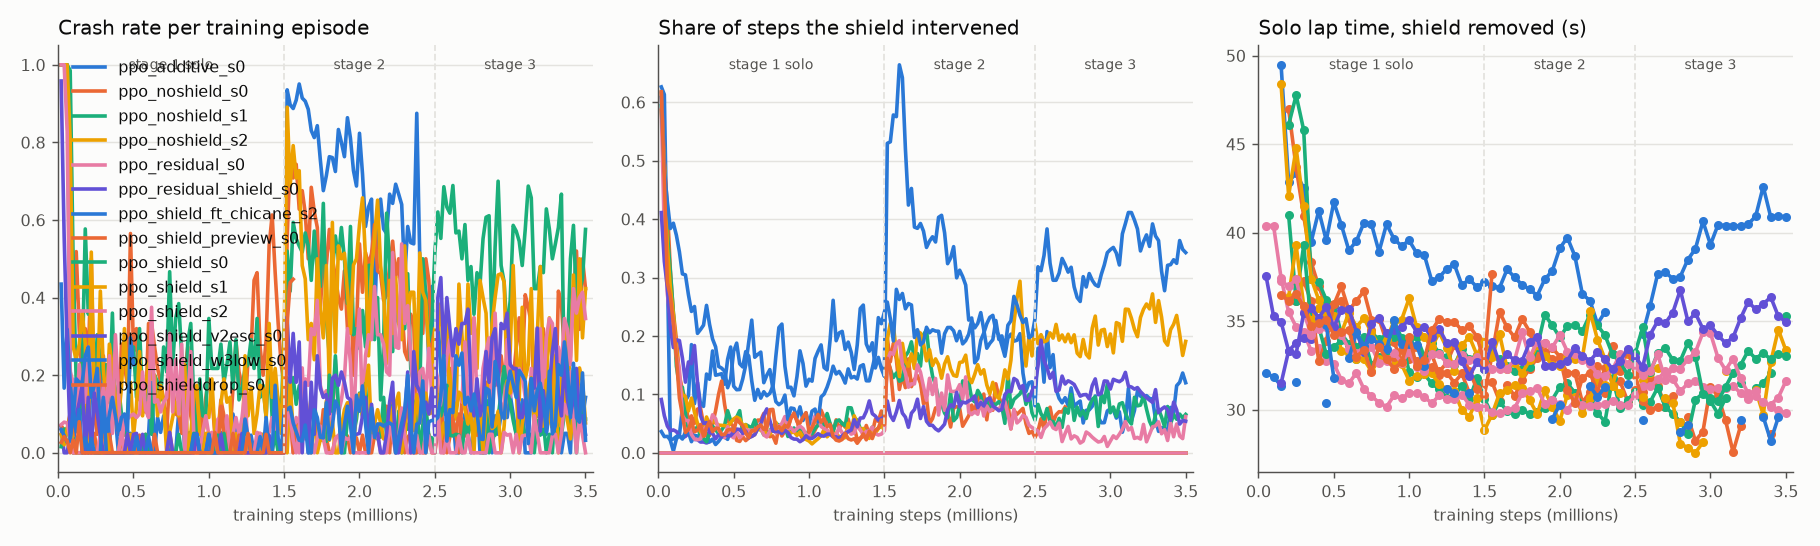
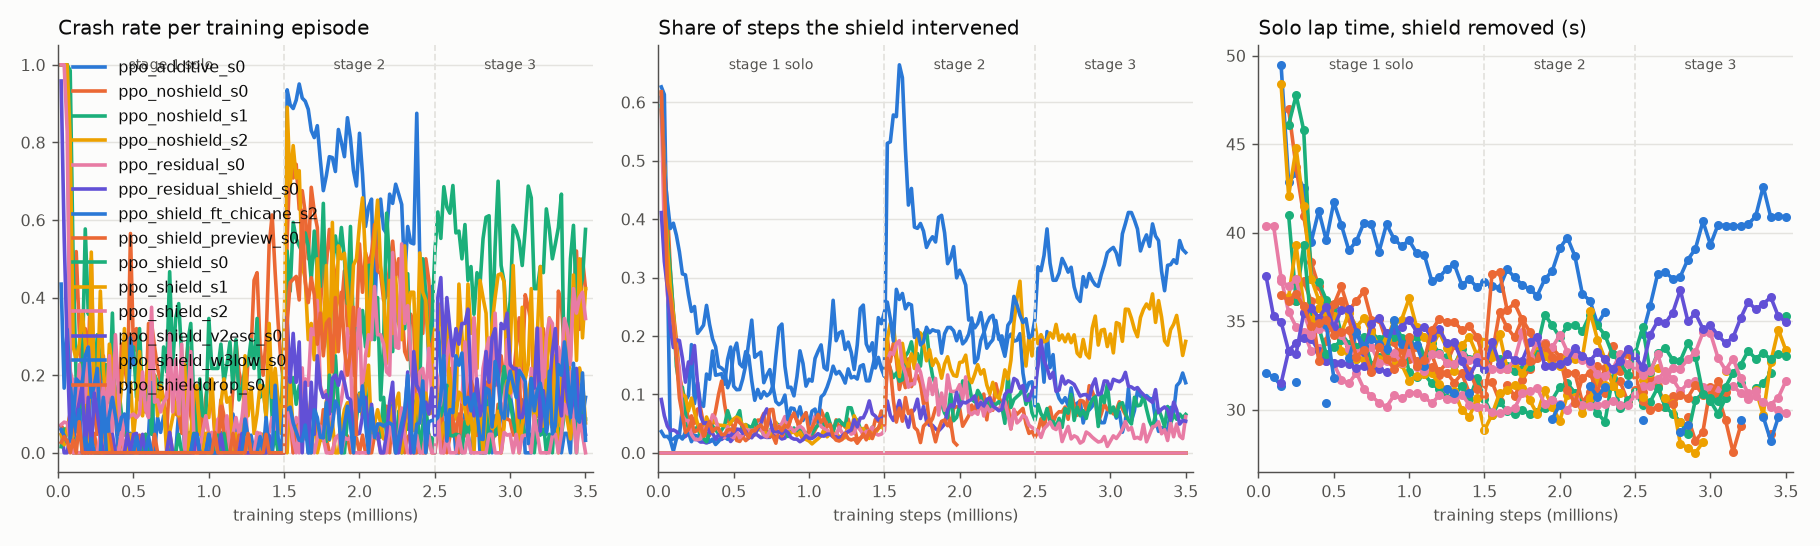
Auto-sync training progress (11:38)

diff --git a/RUNS.md b/RUNS.md
@@ -1,6 +1,6 @@
 # Run registry
 
-Auto-generated by `python -m scripts.update_registry` (2026-11-05 11:18). Each run directory `runs/<run>/` holds `args.json`, `run_info.json` (git commit, command, status), `train_log.csv` (every ~20k steps), `eval_log.csv` (solo laps with/without shield every 50k steps), `model_stage*.zip` + `vecnorm_stage*.pkl` (checkpoint after each curriculum stage). TensorBoard logs (`runs/*/tb`) stay local.
+Auto-generated by `python -m scripts.update_registry` (2026-11-05 11:38). Each run directory `runs/<run>/` holds `args.json`, `run_info.json` (git commit, command, status), `train_log.csv` (every ~20k steps), `eval_log.csv` (solo laps with/without shield every 50k steps), `model_stage*.zip` + `vecnorm_stage*.pkl` (checkpoint after each curriculum stage). TensorBoard logs (`runs/*/tb`) stay local.
 
 ## Training runs
 
@@ -11,15 +11,15 @@ Auto-generated by `python -m scripts.update_registry` (2026-11-05 11:18). Each r
 | `ppo_noshield_s1` | Ablation (no shield), seed 1 | shield=off seed=1 tyre=saturated | `b3af79a` | finished | 3.50M | 26% / 41% / 52% | 200k | 28.60 / 35.28 | 0% | stage1, stage2, stage3 |
 | `ppo_noshield_s2` | Ablation (no shield), seed 2 | shield=off seed=2 tyre=saturated | `65f27b5` | finished | 3.50M | 19% / 44% / 30% | 150k | 27.56 / 33.36 | 0% | stage1, stage2, stage3 |
 | `ppo_residual_s0` | ResRace/RaceMOP-style: PPO residual on top of PID+APF (APF shapes every command) | shield=off residual seed=0 tyre=saturated | `5549760` | finished | 3.50M | 14% / 22% / 22% | 50k | 29.80 / 29.80 | 0% | stage1, stage2, stage3 |
-| `ppo_residual_shield_s0` | E23: ResRace-style residual policy trained with the final shield (escape, v2 sim) | shield=cond_fb_grip_esc residual seed=0 tyre=saturated_v2 | `c8b4246` | running | 0.34M | 1% / - / - | 50k | 33.32 / 34.00 | 2% | - |
+| `ppo_residual_shield_s0` | E23: ResRace-style residual policy trained with the final shield (escape, v2 sim) | shield=cond_fb_grip_esc residual seed=0 tyre=saturated_v2 | `c8b4246` | running | 0.86M | 0% / - / - | 50k | 32.12 / 32.12 | 3% | - |
 | `ppo_shield_ft_chicane_s2` | E22: seed-2 shielded policy fine-tuned 500k steps, half the episodes starting before the chicane | shield=cond_fb_grip_esc seed=2 tyre=saturated_v2 | `e1f1aac` | running | 0.50M | 17% | 50k | 30.36 / 30.36 | 3% | - |
-| `ppo_shield_preview_s0` | Timidity test: ours with 10 centerline curvatures (1-20 m ahead) in the observation | shield=cond_fb_grip seed=0 tyre=saturated | `98cfd56` | running | 2.70M | 2% / 4% / 6% | 250k | 30.00 / 30.16 | 7% | stage1, stage2 |
+| `ppo_shield_preview_s0` | Timidity test: ours with 10 centerline curvatures (1-20 m ahead) in the observation | shield=cond_fb_grip seed=0 tyre=saturated | `98cfd56` | running | 3.10M | 2% / 4% / 8% | 250k | 30.00 / 31.00 | 7% | stage1, stage2 |
 | `ppo_shield_s0` | Ours: PPO + action-conditioned APF shield with fallback (grip reach), all stages | shield=cond_fb_grip seed=0 tyre=saturated | `afc94c8 +dirty` | finished | 3.50M | 1% / 9% / 7% | 200k | 30.48 / 33.04 | 6% | stage1, stage2, stage3 |
 | `ppo_shield_s1` | Ours, seed 1 | shield=cond_fb_grip seed=1 tyre=saturated | `0152028` | finished | 3.50M | 1% / 9% / 11% | 200k | 29.12 / 29.12 | 20% | stage1, stage2, stage3 |
 | `ppo_shield_s2` | Ours, seed 2 | shield=cond_fb_grip seed=2 tyre=saturated | `41be473` | finished | 3.50M | 1% / 3% / 3% | 150k | 30.28 / 31.60 | 4% | stage1, stage2, stage3 |
 | `ppo_shield_v2esc_s0` | Ours, improved: shield with deadlock escape, trained on the post-spin-fixed simulator | shield=cond_fb_grip_esc seed=0 tyre=saturated_v2 | `1bb44f8` | finished | 3.50M | 4% / 12% / 21% | 150k | 31.48 / 34.96 | 6% | stage1, stage2, stage3 |
 | `ppo_shield_w3low_s0` | Timidity test: ours with intervention penalty w3 = 0.02 (default 0.1) | shield=cond_fb_grip seed=0 tyre=saturated | `8eb284b` | finished | 3.50M | 2% / 7% / 15% | 450k | 28.24 / 29.56 | 34% | stage1, stage2, stage3 |
-| `ppo_shielddrop_s0` | Shield dropout: shield on in 100% / 50% / 25% of episodes in stages 1/2/3 (does the policy learn safety itself?) | shield=cond_fb_grip seed=0 tyre=saturated | `0d04e46 +dirty` | running | 1.56M | 0% / 30% / - | 150k | 32.12 / 37.68 | 10% | stage1 |
+| `ppo_shielddrop_s0` | Shield dropout: shield on in 100% / 50% / 25% of episodes in stages 1/2/3 (does the policy learn safety itself?) | shield=cond_fb_grip seed=0 tyre=saturated | `0d04e46 +dirty` | running | 1.98M | 0% / 34% / - | 150k | 32.12 / 33.00 | 4% | stage1 |
 
 ### Commands and notes
 

diff --git a/results/training_efficiency.md b/results/training_efficiency.md
@@ -9,12 +9,12 @@ Solo laps every 50k steps, standing start. 'fast' = under 34 s (best classical s
 | `ppo_noshield_s1` | off | 3500k | 200k | 600k | 1080 | 2769 (5517) | 28.60 |
 | `ppo_noshield_s2` | off | 3500k | 150k | 550k | 969 | 2295 (5267) | 27.56 |
 | `ppo_residual_s0` | off residual | 3500k | 50k | 350k | 259 | 995 (4141) | 29.80 |
-| `ppo_residual_shield_s0` | cond_fb_grip_esc residual tyre=saturated_v2 | 340k | 50k | 200k | 1 | 2 (337) | 33.32 |
+| `ppo_residual_shield_s0` | cond_fb_grip_esc residual tyre=saturated_v2 | 860k | 50k | 200k | 1 | 3 (859) | 32.12 |
 | `ppo_shield_ft_chicane_s2` | cond_fb_grip_esc tyre=saturated_v2 | 500k | 50k | 50k | 14 | 94 (547) | 30.36 |
-| `ppo_shield_preview_s0` | cond_fb_grip | 2700k | 250k | 400k | 15 | 101 (3167) | 30.00 |
+| `ppo_shield_preview_s0` | cond_fb_grip | 3100k | 250k | 400k | 15 | 150 (3644) | 30.00 |
 | `ppo_shield_s0` | cond_fb_grip | 3500k | 200k | 450k | 8 | 234 (4158) | 30.48 |
 | `ppo_shield_s1` | cond_fb_grip | 3500k | 200k | 800k | 9 | 313 (4572) | 29.12 |
 | `ppo_shield_s2` | cond_fb_grip | 3500k | 150k | 600k | 11 | 96 (3965) | 30.28 |
 | `ppo_shield_v2esc_s0` | cond_fb_grip_esc tyre=saturated_v2 | 3500k | 150k | 150k | 76 | 497 (3821) | 31.48 |
 | `ppo_shield_w3low_s0` | cond_fb_grip | 3500k | 450k | 500k | 24 | 405 (4981) | 28.24 |
-| `ppo_shielddrop_s0` | cond_fb_grip drop=[1.0, 0.5, 0.25] | 1560k | 150k | 650k | 8 | 59 (1768) | 32.12 |
+| `ppo_shielddrop_s0` | cond_fb_grip drop=[1.0, 0.5, 0.25] | 1980k | 150k | 650k | 8 | 261 (2340) | 32.12 |
